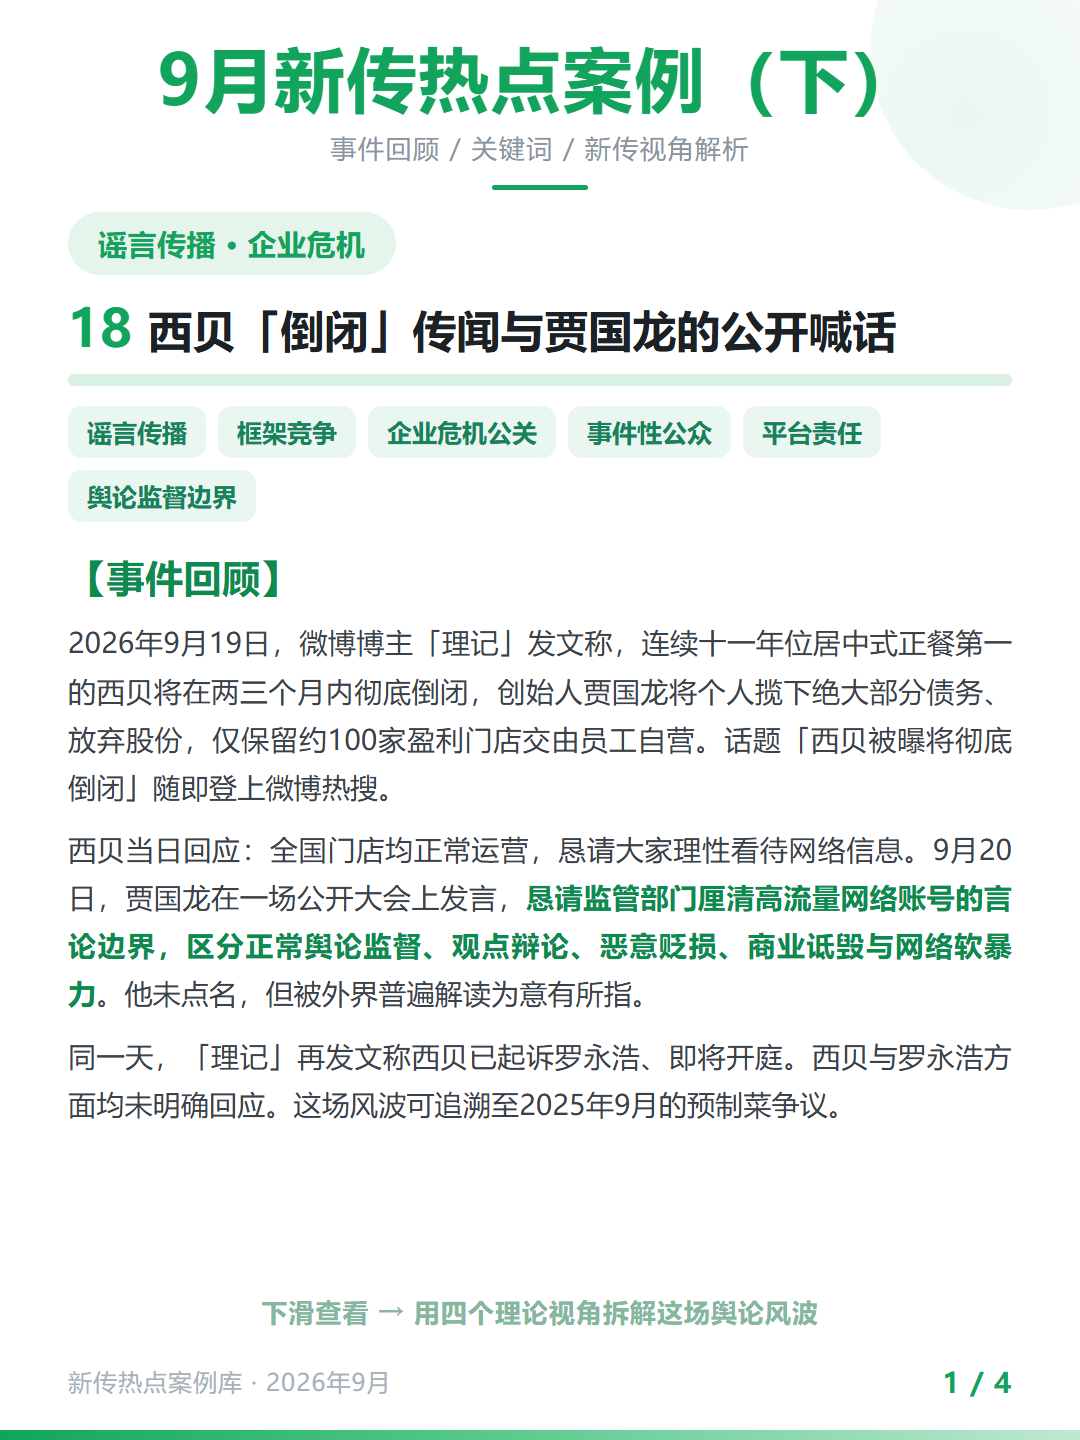
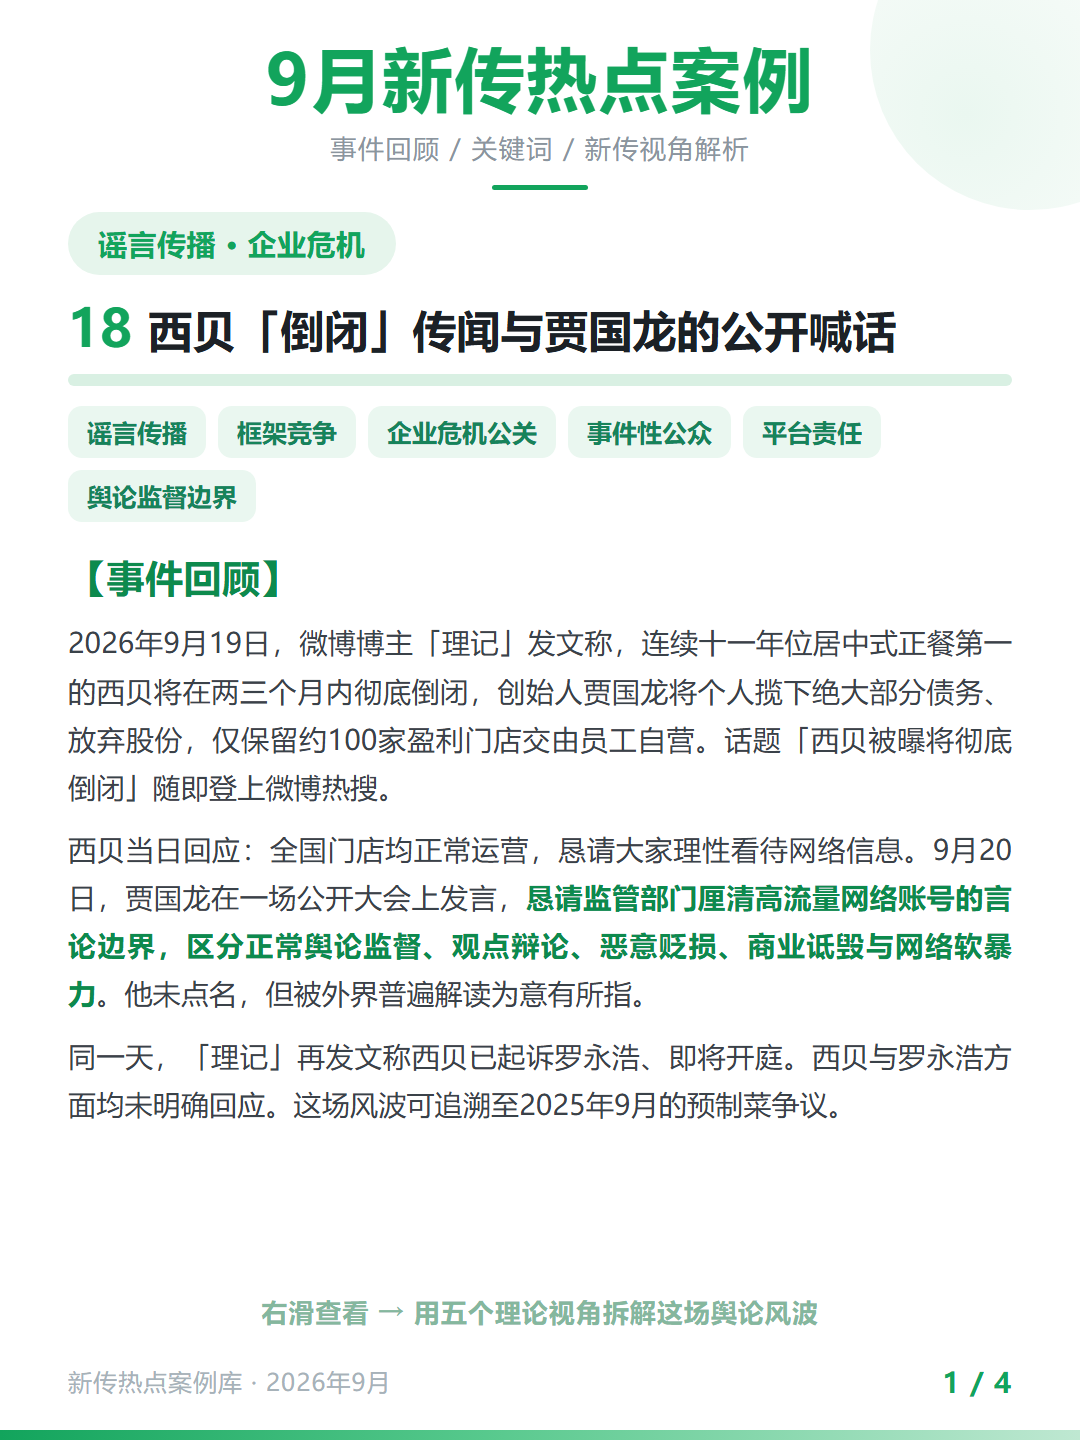
fix(18期): 首屏页头去掉「（下）」后缀，底部提示改「右滑查看」
- 用户要求：页头只留「9月新传热点案例」，后续各期同样不带批次后缀
- 底部提示「下滑查看」→「右滑查看」（小红书左右切图）
- 提示语中的视角数由「四个」更正为「五个」
- skill 固化两条默认规则
- 归档图卡 18-西贝倒闭传闻-01.png 已同步

Changed region(s): [[0.1528, 0.0312, 0.825, 0.0938], [0.3972, 0.9062, 0.4278, 0.9375], [0.2444, 0.9062, 0.275, 0.9375]]

diff --git a/kb/wiki/log.md b/kb/wiki/log.md
@@ -226,3 +226,10 @@
 - 门店数取窄门餐眼「截至 2026-09-19 约 226 家」口径；另有报道称约 203 家，两存于待核项。
 - 关联政策面：新华社 2026-09-20 报道国家网信办指导北京市网信办约谈微博、快手，理由为热搜主榜高位呈现大量明星琐事类词条、存在泛娱乐化倾向。因与本期主题（平台内容治理、言论边界）高度相关，作为同页「政策」条目呈现。
 - 与编号 14（罗永浩 × 野人先生）作对做：同一意见领袖、同一「消费者吐槽」定位，一方沉默、一方对抗。与编号 16 构成「信任消耗」的对外/对内两种形态。
+
+### 版式细节修订（2026-09-21，用户要求）
+
+- 首屏 `.page-title` 去掉「（下）」后缀，只留「9月新传热点案例」；**后续各期一律不带批次后缀**。
+- 首屏底部提示由「下滑查看」改为「**右滑查看 →**」（小红书为左右切图）。
+- 两条规则已写进 `hotspot-case-card` skill，成为默认。
+- 顺带修正：提示语里原写「四个理论视角」，实际为五个，已改。

diff --git a/.workbuddy/skills/hotspot-case-card/SKILL.md b/.workbuddy/skills/hotspot-case-card/SKILL.md
@@ -58,6 +58,12 @@ agent_created: true
 
 **A 版式末页的参考资料**用小字号（`.src-title` 30px 标题 + `.sources` 20px 正文，灰色 #7d8b93），下方可加 `.disclaim` 浅绿底块写待核说明。这套样式已内置在 `西贝倒闭传闻_新传案例/style.css` 末尾，新目录直接继承。
 
+**A 版式首屏页头与提示语（用户 2026-09-21 明确要求，成为默认）**
+
+- `.page-title` 只写「`M月`新传热点案例」，**不带「（上）」「（下）」「（一）」等批次后缀**。页头是跨期共用的栏目名，不承担分期功能。
+- 底部 `.hint` 固定写「**右滑查看 →** ……」（小红书为左右切图，不是上下滑动）。视角数量要与实际页数一致，别写错。
+- 该规则对所有版式通用。
+
 **B 版式首页刊头（可选，用户指定时必加）**
 
 用户要求「首页上面标题居中写 XX」时，在 p1 的 `.page` 内、`.kicker` 之前插入：
